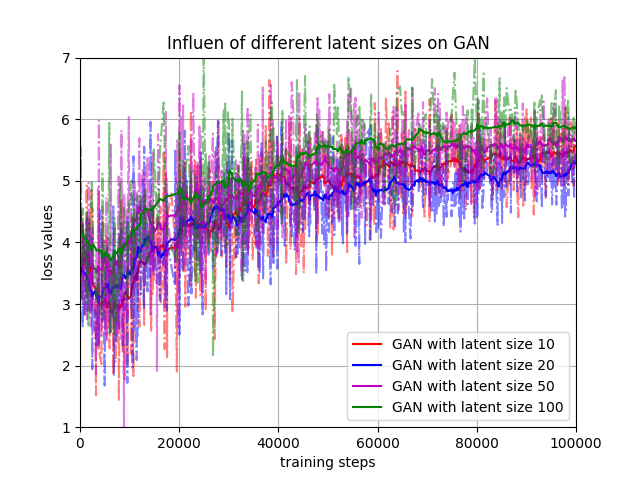
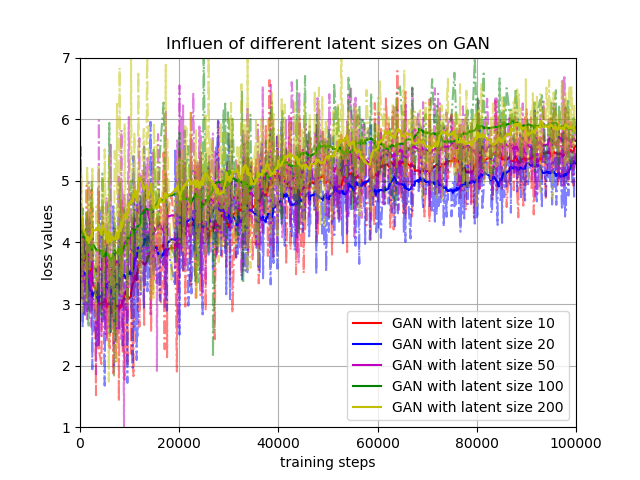
zlf_1115

diff --git a/assign4/plot_test.py b/assign4/plot_test.py
@@ -1,0 +1,162 @@
+"""
+-----------------------------------------------------------------
+CSI 5138: Assignment 4
+Student:            Ao   Zhang
+Student Number:     0300039680
+
+-----------------------------------------------------------------
+Loss function plotting code for the assignment 4.
+
+The code is for reading the result saved from tensorboard, and
+re-orgnizing the plots.
+-----------------------------------------------------------------
+"""
+import numpy as np
+import matplotlib
+# for remote plot through X11
+matplotlib.use("tkagg")
+import matplotlib.pyplot as plt
+from scipy.signal import savgol_filter
+import csv
+from glob import glob
+
+
+def ReadCsv(filename):
+    """
+    Function:
+        Read the csv file saved from tensorboard.
+    """
+    x = []
+    y = []
+    # open csv file.
+    with open(filename) as f:
+        csv_reader = list(csv.reader(f, delimiter=','))
+        for i in range(len(csv_reader)):
+            if i == 0:
+                continue
+            else:
+                current_line = csv_reader[i]
+                x.append(int((current_line[1])))
+                y.append(float((current_line[2])))
+    # make it into numpy array
+    x = np.array(x)
+    y = np.array(y) 
+    return x, y
+
+def SparseData(x_in, y_in, window = 25, order = 1):
+    """
+    Function:
+        Smooth the plot.
+    """
+    x = x_in
+    y = savgol_filter(y_in, window, order)
+    return x, y
+
+def PlotWithSparse(x, y, ax, color, line_label):
+    """
+    Function:
+        Plot and save the figure.
+    """
+    # two different styles for plotting
+    style1 = color + '-.'
+    style2 = color + '-'
+    ax.plot(x, y, style1, alpha = 0.5)
+    x_prime, y_prime = SparseData(x, y)
+    line, = ax.plot(x_prime, y_prime, style2)
+    # set labels for legend
+    line.set_label(line_label)
+
+def GetOnePlot(model_name, dataset_name, num_hidden, latent_size):
+    """
+    Function:
+        Get the tensorboard file with the specific requirements.
+    """
+    # get the file name
+    file_pref = "tensorboard_scv/run-" + model_name + "_" + dataset_name + "_" + str(num_hidden) + \
+            "_" + str(latent_size) + "_" + str(256) + "-tag-" + model_name + "_"
+    if model_name == "GAN" or model_name == "WGAN":
+        file_descrip = "G_loss.csv"
+    else:
+        file_descrip = "loss.csv"
+    file_name = file_pref + file_descrip
+
+    x, y = ReadCsv(file_name)
+    return x, y
+
+def PlotAll(mode, model_name, dataset_name, num_hiddens, latent_sizes, xlim, ylim):
+    """
+    Function:
+        Plot all data for comparison.
+    """
+    fig = plt.figure()
+    ax = fig.add_subplot(111)
+    colors = ['r', 'b', 'm', 'g', 'y']
+
+    if mode == "latents":
+        assert len(latent_sizes) > 0
+        for i in range(len(latent_sizes)):
+            latent_size = latent_sizes[i]
+            x, y = GetOnePlot(model_name, dataset_name, num_hiddens, latent_size)
+            if latent_size == 100:
+                x = x[:len(x)//2]
+                y = y[:len(y)//2]
+            PlotWithSparse(x, y, ax, colors[i], model_name + " with latent size " + str(latent_size))
+        ax.set_title("Influen of different latent sizes on " + model_name)
+        ax.set_xlim(xlim)
+        ax.set_ylim(ylim)
+        ax.set_xlabel("training steps")
+        ax.set_ylabel("loss values")
+        ax.legend()
+        ax.grid()
+        plt.savefig("output_figures/" + model_name + "_" + dataset_name + "_" + "latents.png")
+        plt.show()
+    else:
+        assert len(num_hiddens) > 0
+        for i in range(len(num_hiddens)):
+            num_hidden = num_hiddens[i]
+            x, y = GetOnePlot(model_name, dataset_name, num_hidden, latent_sizes)
+            if num_hidden == 0:
+                x = x[:len(x)//2]
+                y = y[:len(y)//2]
+            if dataset_name == "CIFAR":
+                PlotWithSparse(x, y, ax, colors[i], model_name + " with hidden layers " + str(num_hidden + 4))
+            else:
+                PlotWithSparse(x, y, ax, colors[i], model_name + " with hidden layers " + str(num_hidden + 3))
+        ax.set_title("Influen of different hidden layers sizes on " + model_name)
+        ax.set_xlim(xlim)
+        ax.set_ylim(ylim)
+        ax.set_xlabel("training steps")
+        ax.set_ylabel("loss values")
+        ax.legend()
+        ax.grid()
+        plt.savefig("output_figures/" + model_name + "_" + dataset_name + "_" + "hidden.png")
+        plt.show()
+
+
+if __name__ == "__main__":
+    """
+    model names:
+        "VAE"
+        "GAN"
+        "WGAN"
+    dataset names:
+        "MNIST"
+        "CIFAR"
+    mode names:
+        "hiddens"
+        "latents"
+    """
+    model_names = ["GAN", "WGAN", "VAE"]
+    dataset_names = ["MNIST", "CIFAR"]
+    # latent_sizes = [10, 20, 50, 100, 200]
+    latent_sizes = 100
+    num_hiddens = [0,1,2]
+    # num_hiddens = 0
+
+    
+    if isinstance(latent_sizes, list):
+        mode = "latents"
+    else:
+        mode = "hiddens"
+        
+    PlotAll("hiddens", "WGAN", "MNIST", num_hiddens, latent_sizes, [0, 100000], [-0.2,0.15])
